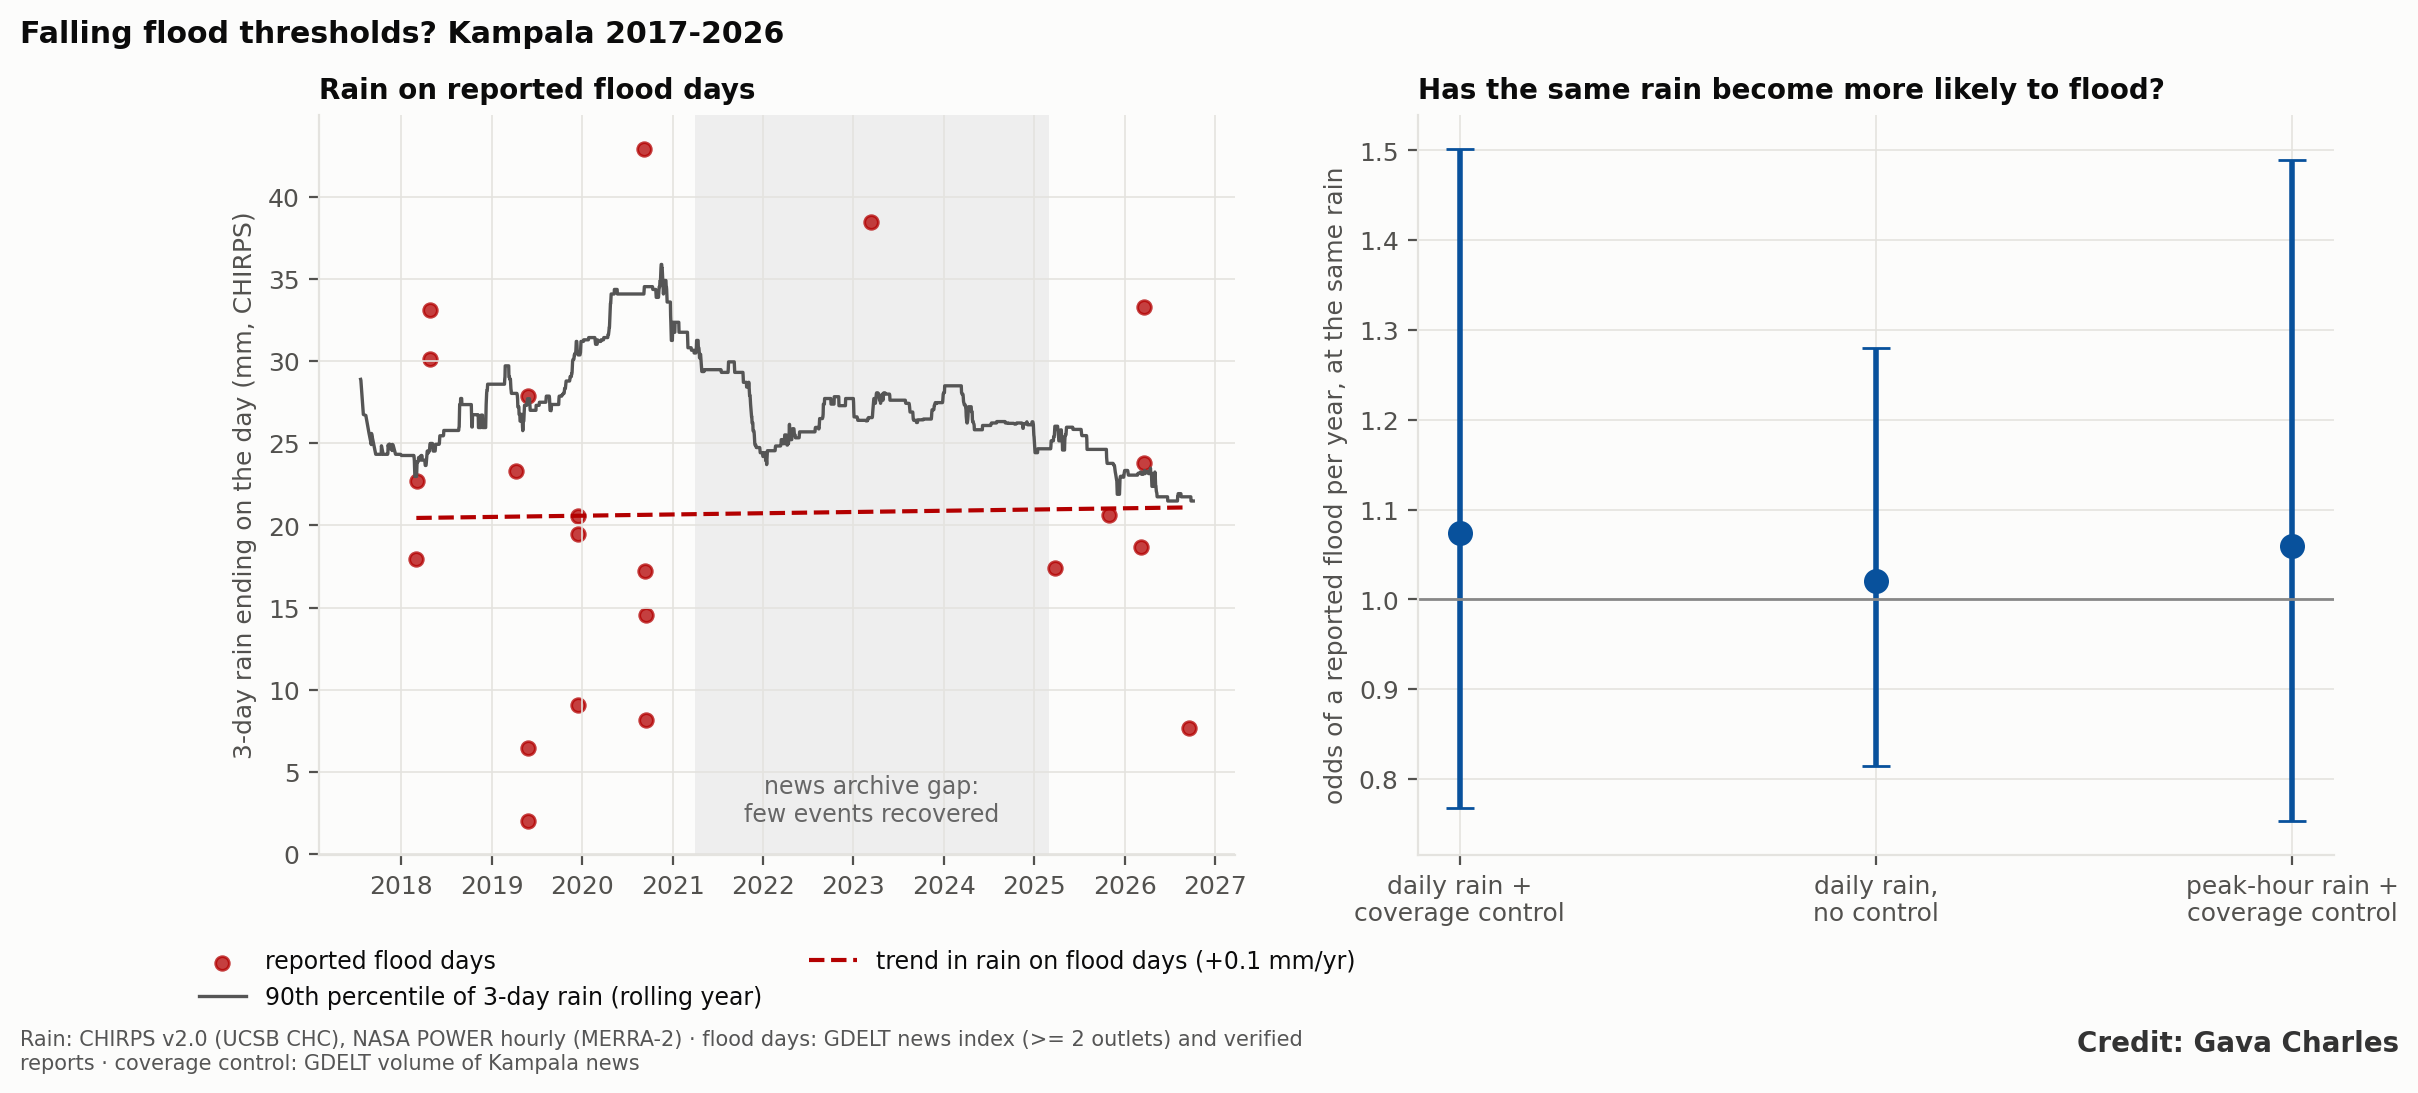
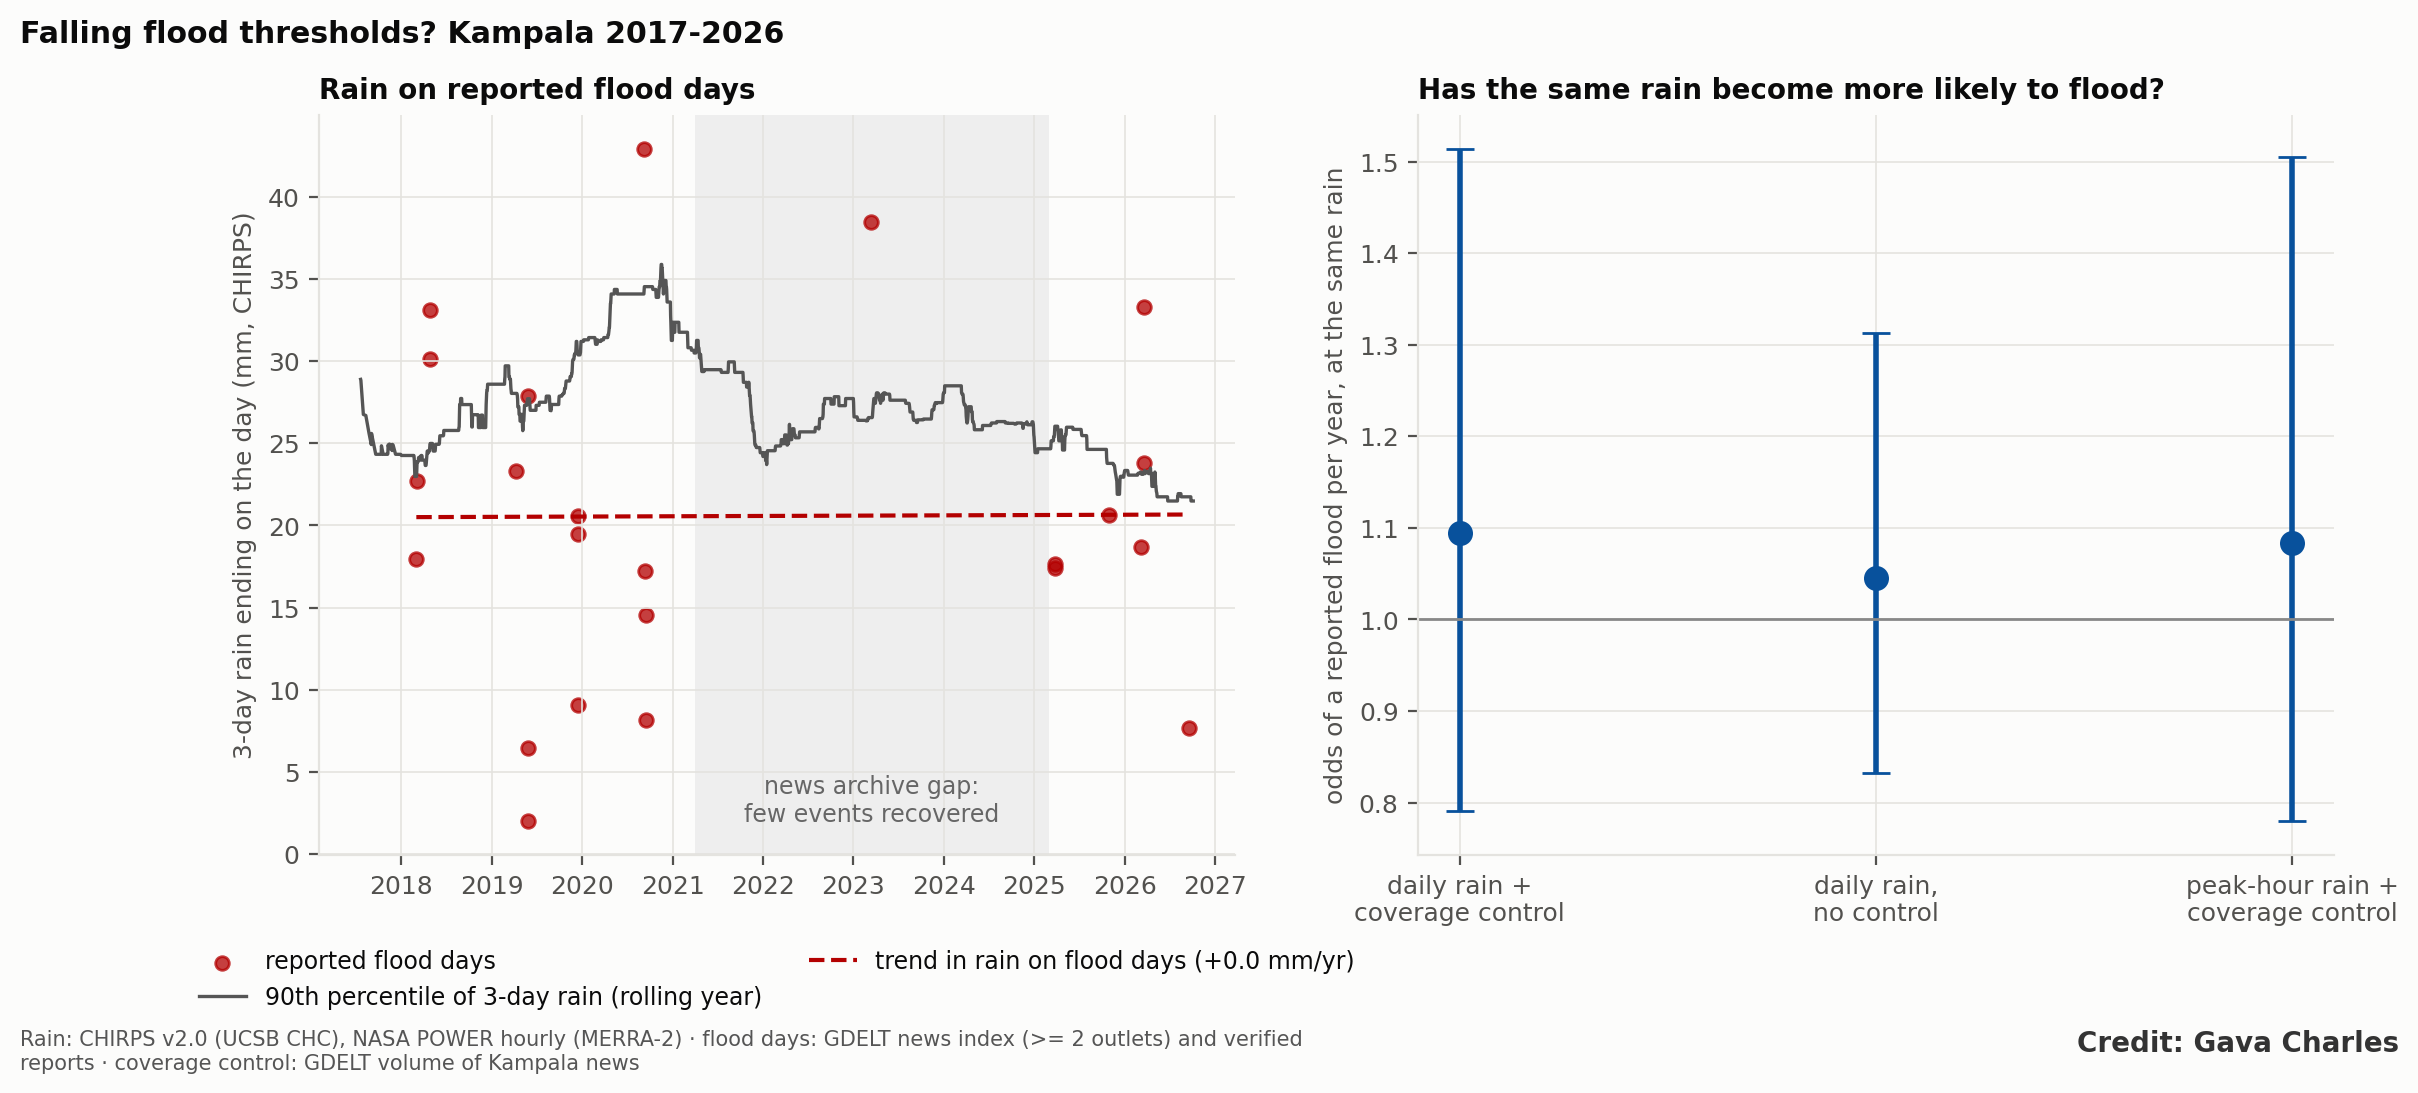
Paper A: threshold test on complete 2017-2026 catalogue

diff --git a/paper/kampala_drainage_paperA.md b/paper/kampala_drainage_paperA.md
@@ -8,7 +8,7 @@ date: "Draft, October 2026"
 
 # Abstract
 
-Kampala's floods are often blamed on heavier rain. We test that claim with open data alone. For 6,914 drainage-channel stretches across Greater Kampala (469 km of flowing channel), we combine OpenStreetMap drains, culverts and dump sites, Microsoft building footprints, JRC GHSL built-up and population layers (1975–2030), a 30 m terrain model and satellite rainfall (1981–2025). Kampala's rainfall extremes show no trend: the wettest day of the year changed by −1.0 mm per decade (p = 0.24) and the wettest three days by +0.7 mm per decade (p = 0.46). Annual totals rose by about 15% (p = 0.05). Reported flood days are often ordinary rain days: on five of seven well-dated events, satellite rain that day was below the 92nd percentile of wet days, and on two it was below the 22nd. An index of six present-day drainage pressures separates channels at 45 reported flood hotspots from other channels (AUC 0.73, 95% CI 0.58–0.89, spatial block bootstrap). The strongest pressures are buildings on low ground, buildings inside the 15 m channel reserve, culverts and bridges, and the loss of wetland. Upstream paving, by contrast, does not distinguish today's hotspots, which sit in long-built areas. A score built only from 1975–2000 change predicts where valley floors were built over in 2000–2020 (AUC 0.79, 95% CI 0.71–0.87), against 0.58 for the naive "already-built areas grow" rule. This identifies the fast-growing fringe as where the next hotspots are forming. Since 2000, the number of people on low ground beside channels has grown in step with the city, reaching about 205,000 in 2020. A test of whether the rain needed to cause a reported flood has fallen (2017–2026, 22 dated flood days) finds no detectable change, but has little statistical power; flood days are predicted by short, intense bursts (peak-hour rain, p = 0.01) rather than daily totals. The evidence points to drainage capacity and encroachment, not rainfall, as the lever planners control. We release the channel inventory and an open maintenance dashboard.
+Kampala's floods are often blamed on heavier rain. We test that claim with open data alone. For 6,914 drainage-channel stretches across Greater Kampala (469 km of flowing channel), we combine OpenStreetMap drains, culverts and dump sites, Microsoft building footprints, JRC GHSL built-up and population layers (1975–2030), a 30 m terrain model and satellite rainfall (1981–2025). Kampala's rainfall extremes show no trend: the wettest day of the year changed by −1.0 mm per decade (p = 0.24) and the wettest three days by +0.7 mm per decade (p = 0.46). Annual totals rose by about 15% (p = 0.05). Reported flood days are often ordinary rain days: on five of seven well-dated events, satellite rain that day was below the 92nd percentile of wet days, and on two it was below the 22nd. An index of six present-day drainage pressures separates channels at 45 reported flood hotspots from other channels (AUC 0.73, 95% CI 0.58–0.89, spatial block bootstrap). The strongest pressures are buildings on low ground, buildings inside the 15 m channel reserve, culverts and bridges, and the loss of wetland. Upstream paving, by contrast, does not distinguish today's hotspots, which sit in long-built areas. A score built only from 1975–2000 change predicts where valley floors were built over in 2000–2020 (AUC 0.79, 95% CI 0.71–0.87), against 0.58 for the naive "already-built areas grow" rule. This identifies the fast-growing fringe as where the next hotspots are forming. Since 2000, the number of people on low ground beside channels has grown in step with the city, reaching about 205,000 in 2020. A test of whether the rain needed to cause a reported flood has fallen (2017–2026, 23 dated flood days) finds no detectable change, but has little statistical power; flood days are predicted by short, intense bursts (peak-hour rain, p = 0.015) rather than daily totals. The evidence points to drainage capacity and encroachment, not rainfall, as the lever planners control. We release the channel inventory and an open maintenance dashboard.
 
 # 1. Introduction
 
@@ -114,15 +114,15 @@ Radar change detection of new structures on open land is only exploratory:
 
 It is useful for inspection leads, not for counting encroachment.
 
-**4.7 Has the rain needed to flood fallen? Not detectably, and the record is too short to say.** We assembled 22 dated flood days for 2017–2026 from the GDELT news index (events reported by at least two outlets, filtered to flood-event headlines) and verified news reports. The news record has a large gap: few events could be recovered for 2021–2024, which reflects the archive, not an absence of floods. For every day, a logistic model relates the chance of a reported flood to rainfall and a time trend, controlling for the volume of Kampala news coverage.
+**4.7 Has the rain needed to flood fallen? Not detectably, and the record is too short to say.** We assembled 23 dated flood days for 2017–2026 from the GDELT news index (events reported by at least two outlets, filtered to flood-event headlines) and verified news reports. The news record has a large gap: the full GDELT index (2017–2026, all 40 quarters retrieved) holds no multi-outlet Kampala flood events for 2021–2024, which reflects the archive's coverage, not an absence of floods. For every day, a logistic model relates the chance of a reported flood to rainfall and a time trend, controlling for the volume of Kampala news coverage.
 
-| Model (wet days, n = 1,947; 19 flood days) | Odds of a flood per year, same rain (95% CI) | p |
+| Model (wet days, n = 1,947; 20 flood days) | Odds of a flood per year, same rain (95% CI) | p |
 |---|---|---|
-| Daily rain (CHIRPS) + coverage control | 1.07 (0.77–1.50) | 0.68 |
-| Daily rain, no coverage control | 1.02 (0.81–1.28) | 0.86 |
-| Peak-hour rain (NASA POWER) + coverage control | 1.06 (0.75–1.49) | 0.74 |
+| Daily rain (CHIRPS) + coverage control | 1.09 (0.79–1.51) | 0.59 |
+| Daily rain, no coverage control | 1.05 (0.83–1.31) | 0.70 |
+| Peak-hour rain (NASA POWER) + coverage control | 1.08 (0.78–1.51) | 0.63 |
 
-The rain falling on flood days shows no trend either (Kendall τ = −0.04, p = 0.82; Fig. kd26). The test is underpowered: with so few events, the confidence intervals include both no change and a 50% yearly rise in flood odds at the same rain, so the hypothesis of falling thresholds can be neither confirmed nor rejected. One result is robust, though. Flood days track short, intense bursts far better than daily totals: peak-hour rain strongly predicts a reported flood (odds ratio 3.2 per log-unit, p = 0.01), while daily satellite rain does not (1.75, p = 0.25). Kampala's floods are driven by cloudbursts lasting minutes to hours, which daily satellite products average away. A rain-gauge network with sub-hourly recording, and a systematically kept flood log (such as the field-report layer of the Drain Watch tool), would let this test be repeated with adequate power.
+The rain falling on flood days shows no trend either (Kendall τ = −0.04, p = 0.84; Fig. kd26). The test is underpowered: with so few events, the confidence intervals include both no change and a 50% yearly rise in flood odds at the same rain, so the hypothesis of falling thresholds can be neither confirmed nor rejected. One result is robust, though. Flood days track short, intense bursts far better than daily totals: peak-hour rain strongly predicts a reported flood (odds ratio 2.8 per log-unit, p = 0.015), while daily satellite rain does not (1.78, p = 0.22). Kampala's floods are driven by cloudbursts lasting minutes to hours, which daily satellite products average away. A rain-gauge network with sub-hourly recording, and a systematically kept flood log (such as the field-report layer of the Drain Watch tool), would let this test be repeated with adequate power.
 
 # 5. Discussion: what this means for planning
 
